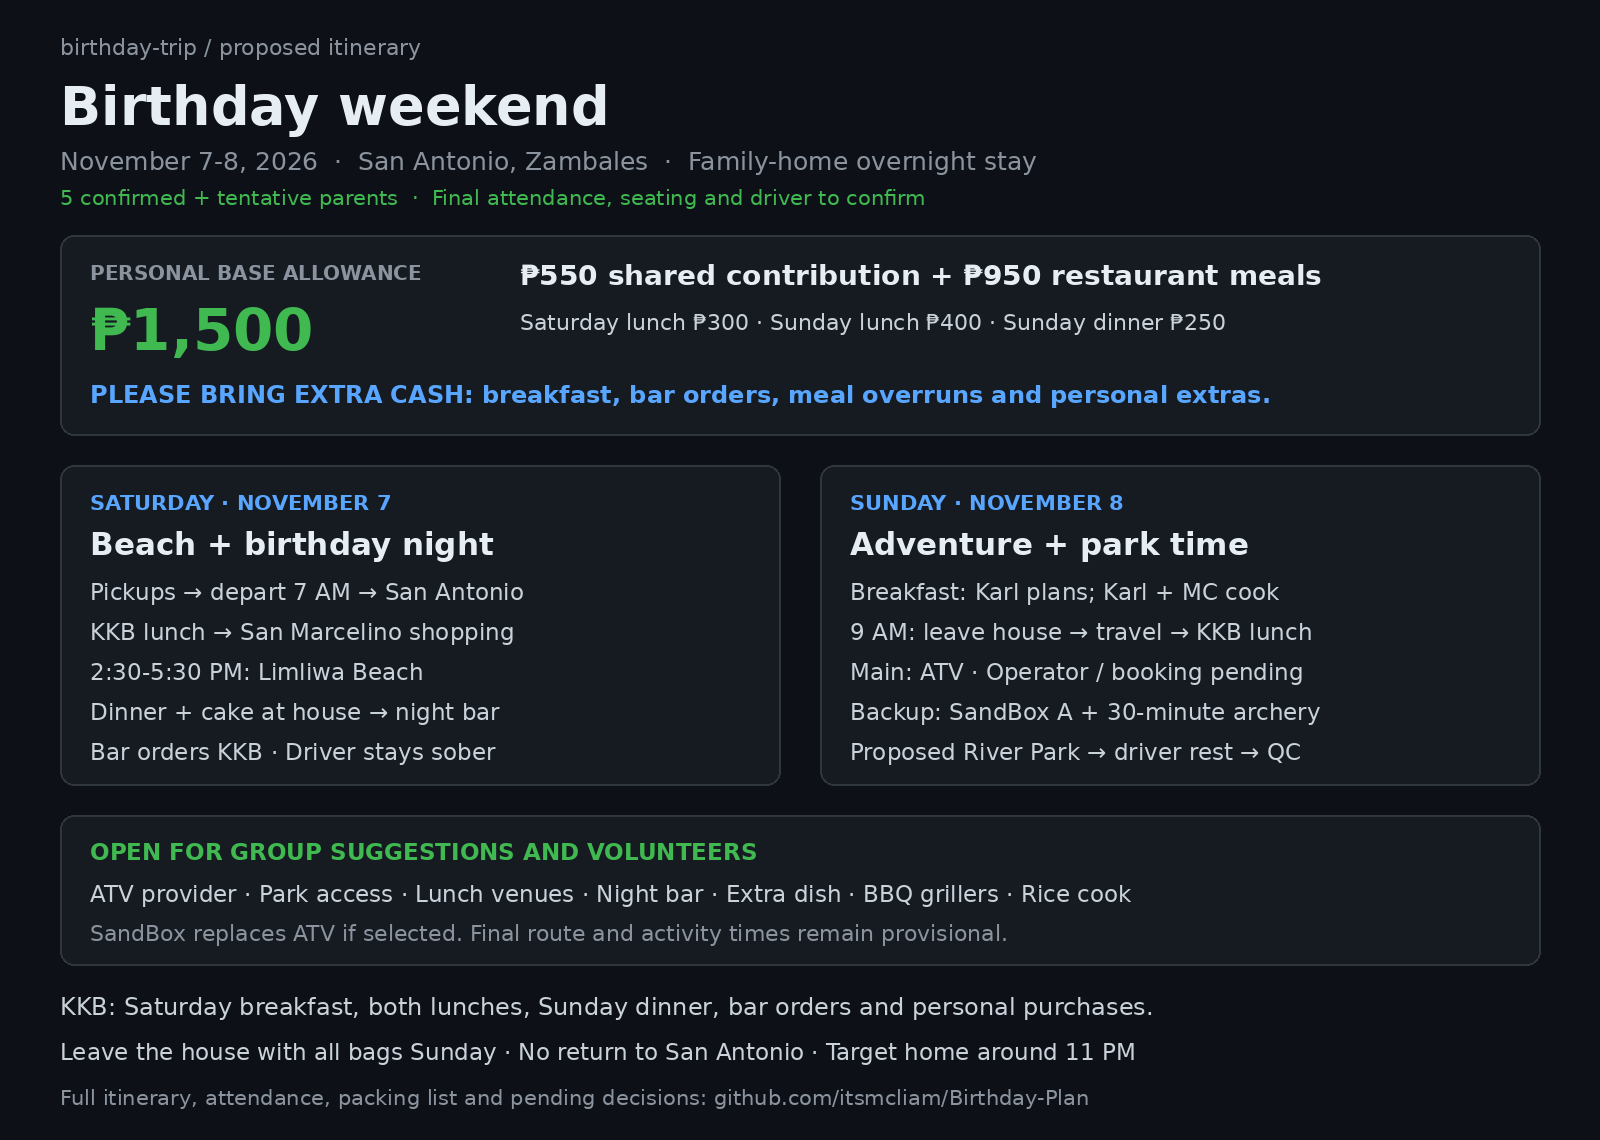
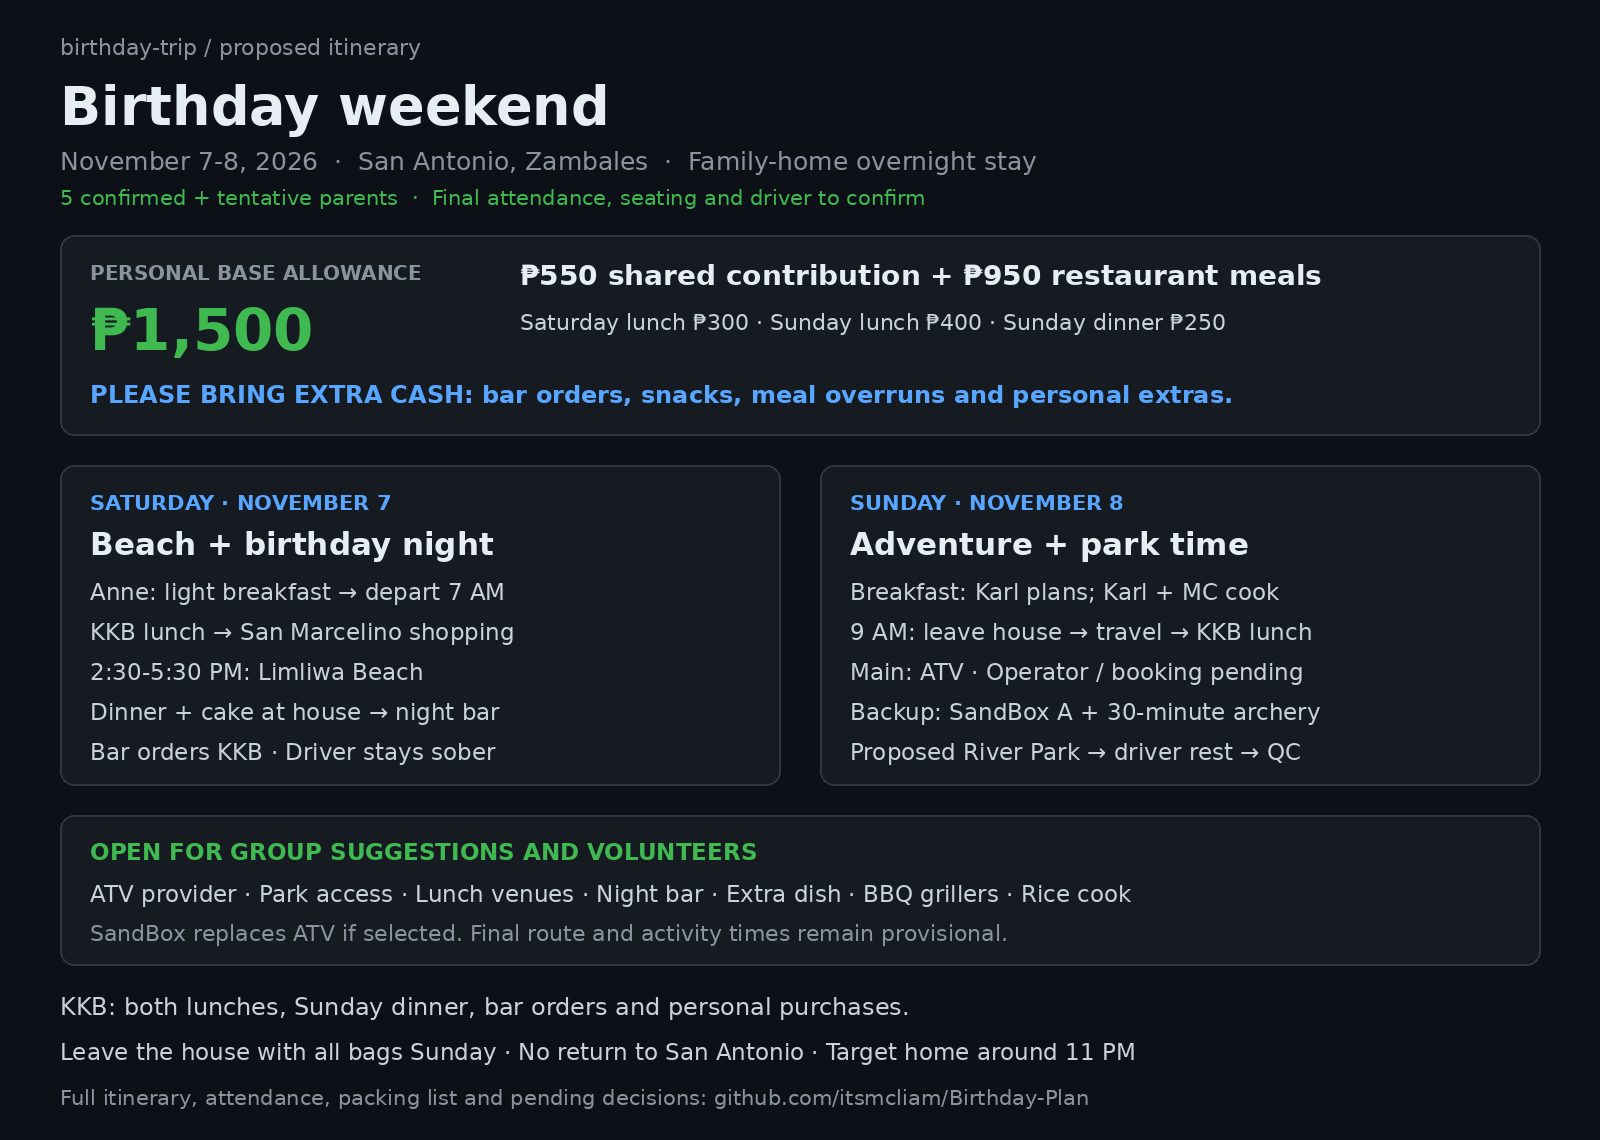
Add updated route maps and assign Anne Saturday breakfast

Changed region(s): [[0.0625, 0.8596, 0.7188, 0.8904], [0.3125, 0.3377, 0.7812, 0.3684], [0.0625, 0.4912, 0.3125, 0.5526]]

diff --git a/README.md b/README.md
@@ -21,6 +21,15 @@ A joint birthday celebration for **MC, Richelle and Paul**, with an overnight st
 
 **The itinerary is still proposed. Pending destinations and arrangements are open to group suggestions and approval.**
 
+## Route maps
+
+| Day | Google Maps route |
+| --- | --- |
+| Day 1 - Saturday, November 7 | [Open route](https://maps.app.goo.gl/bow4Z7npJpLcuBze9) |
+| Day 2 - Sunday, November 8 | [Open route](https://maps.app.goo.gl/9TENoR7mgRZXrqK6A) |
+
+Group route links supplied by MC. Sunday’s final route and timings remain subject to the confirmed ATV operator or SandBox alternative.
+
 ## Personal budget and KKB expenses
 
 | Expense per friend | Suggested amount |
@@ -37,7 +46,6 @@ Keep **₱950 for the three restaurant meals** and set aside **₱550 for the sh
 
 | Additional personal expense | Arrangement |
 | --- | --- |
-| Saturday breakfast | Buy or eat your own breakfast before departure |
 | Night bar | **KKB** drinks, food and any applicable cover charge |
 | Meals exceeding the allowance | Pay the difference individually |
 | Extra snacks, drinks and personal purchases | Own expense |
@@ -50,7 +58,7 @@ flowchart TD
     C --> D["Saturday lunch: ₱300"]
     C --> E["Sunday lunch: ₱400"]
     C --> F["Sunday dinner: ₱250"]
-    G["Bring extra cash beyond ₱1,500"] --> H["Own breakfast and bar orders"]
+    G["Bring extra cash beyond ₱1,500"] --> H["Bar orders, snacks and extras"]
     G --> I["Meal overruns and personal purchases"]
 ```
 
@@ -83,7 +91,7 @@ These are the **last recorded attendance statuses**. Please reconfirm availabili
 | Time | Plan |
 | --- | --- |
 | 5:30&#8209;6&nbsp;AM | MC arrives at Barte’s house, parks his motorcycle and helps load the car. |
-| 6&#8209;7&nbsp;AM | Pick up Karl and Ian Carl along the route, then meet the remaining passengers at the **Luzon meetup point**. Exact pickup pins to follow. Have your own breakfast beforehand or bring something ready to eat. |
+| 6&#8209;7&nbsp;AM | Pick up Karl and Ian Carl along the route, then meet the remaining passengers at the **Luzon meetup point**. Exact pickup pins to follow. **Anne prepares a light breakfast**, such as bread with spread or filling, for the meetup / departure. Final ingredients and quantity to confirm. |
 | 7&#8209;11&nbsp;AM | Travel to San Antonio, Zambales. Allow approximately **four hours**, including a short stop if needed. |
 | 11&nbsp;AM&#8209;12&nbsp;NN | **Lunch outside - KKB.** Choose a restaurant along the route or near San Antonio. |
 | 12&#8209;1:30&nbsp;PM | Shop at **San Marcelino Public Market**, then a grocery for missing items. Buy dinner and breakfast ingredients, fruit, cake, snacks, drinks, water and ice. Allow 60-90 minutes; Karl identifies the breakfast ingredients. |
@@ -139,7 +147,7 @@ Suggestions for a replacement adventure or relaxation stop are welcome. Choose p
 
 ```mermaid
 flowchart TD
-    A["Saturday: pickups and travel"] --> B["Lunch, San Marcelino shopping and house"]
+    A["Saturday: Anne prepares breakfast, pickups and travel"] --> B["Lunch, San Marcelino shopping and house"]
     B --> C["Limliwa Beach"]
     C --> D["Birthday dinner and night bar"]
     D --> E["Sunday: breakfast, clean and pack"]
@@ -154,7 +162,7 @@ flowchart TD
 
 ## Shopping plan
 
-Plan for **San Marcelino Public Market plus a short grocery stop**, rather than expecting one stall to have everything. Quantities are suggestions for seven people, not confirmed purchases. **Karl finalizes breakfast; the additional dinner dish is still pending.**
+Plan for **San Marcelino Public Market plus a short grocery stop**, rather than expecting one stall to have everything. Quantities are suggestions for seven people, not confirmed purchases. **Karl finalizes Sunday breakfast; the additional dinner dish is still pending.**
 
 ### Buy in San Marcelino / nearby
 
@@ -176,6 +184,7 @@ Plan for **San Marcelino Public Market plus a short grocery stop**, rather than 
 
 | Buy in QC and bring | Plan |
 | --- | --- |
+| Saturday breakfast ingredients | Anne arranges bread and spread / filling before departure; final quantities to confirm |
 | Marinated pork BBQ | 30 sticks; transport in a cooler with ice and refrigerate at the house |
 | Sauces and seasonings | Soy sauce, vinegar, oil, salt, pepper and ingredients requested by the cooks |
 | Garlic, onions and calamansi | Buy ahead if convenient; quantity depends on the final dishes |
@@ -192,7 +201,7 @@ Shopping references: [Mc Mar Frozen Foods listing](https://www.bizippines.com/mc
 
 | Meal / task | Plan | Assigned person |
 | --- | --- | --- |
-| Saturday breakfast | Own breakfast | Each person |
+| Saturday breakfast | Simple bread with spread or filling; final ingredients and quantity pending | **Anne prepares** |
 | Saturday lunch | Restaurant | **KKB** |
 | Saturday dinner: BBQ | **30 marinated pork BBQ sticks** | **At least two grilling volunteers needed** |
 | Saturday dinner: adobo | Pork adobo | Barte’s father, if joining and confirmed |
@@ -208,7 +217,7 @@ Shopping references: [Mc Mar Frozen Foods listing](https://www.bizippines.com/mc
 
 | Person | Items | Notes |
 | --- | --- | --- |
-| **Anne** | Camera gimbal, phone gimbal and picnic mat | Assigned to bring |
+| **Anne** | Camera gimbal, phone gimbal and picnic mat; simple Saturday breakfast | Assigned to bring and prepare; breakfast ingredients and quantity to confirm |
 | **Karl** | Speaker; tent if permitted | Tent cannot be pitched at Limliwa; keep speaker use considerate |
 | **Paul** | Cooler | If joining; otherwise arrange a backup |
 | **MC** | Picnic mat, first-aid kit, paper plates, spoons and forks, cups, trash bags, tissue/paper towels, aluminum foil and food-safe containers with lids | Assigned to bring |
@@ -234,6 +243,7 @@ Chargers, cables and charged power banks are each person’s responsibility.
 | **Water, ice and cooking basics** | Buy water and ice in Zambales; arrange charcoal, sauces, seasonings and other ingredients |
 | **Games and extension cord** | Ask who can bring small games; check whether an extension cord is available at the house |
 | **Shopping and cake** | Confirm the third dish and Karl’s breakfast list; check house supplies, local hotdog / longganisa stock, water and ice sources, and cake preorder / pickup. |
+| **Saturday breakfast** | Anne prepares a light breakfast for departure; confirm the bread, filling, quantity and ingredient / cost arrangements. |
 
 ## Personal packing checklist
 
@@ -248,6 +258,6 @@ Chargers, cables and charged power banks are each person’s responsibility.
 | **Rain protection** | Compact umbrella or raincoat |
 | **Optional comfort items** | Cap, light jacket, personal snacks and small pillow |
 
-**Bring extra cash beyond the ₱1,500 base allowance**, particularly for your breakfast, night-bar orders and meals that exceed the estimates.
+**Bring extra cash beyond the ₱1,500 base allowance**, particularly for night-bar orders, extra snacks and meals that exceed the estimates.
 
 The designated driver should remain sober and get sufficient rest. The schedule may change with weather, traffic, availability and the group’s condition.
